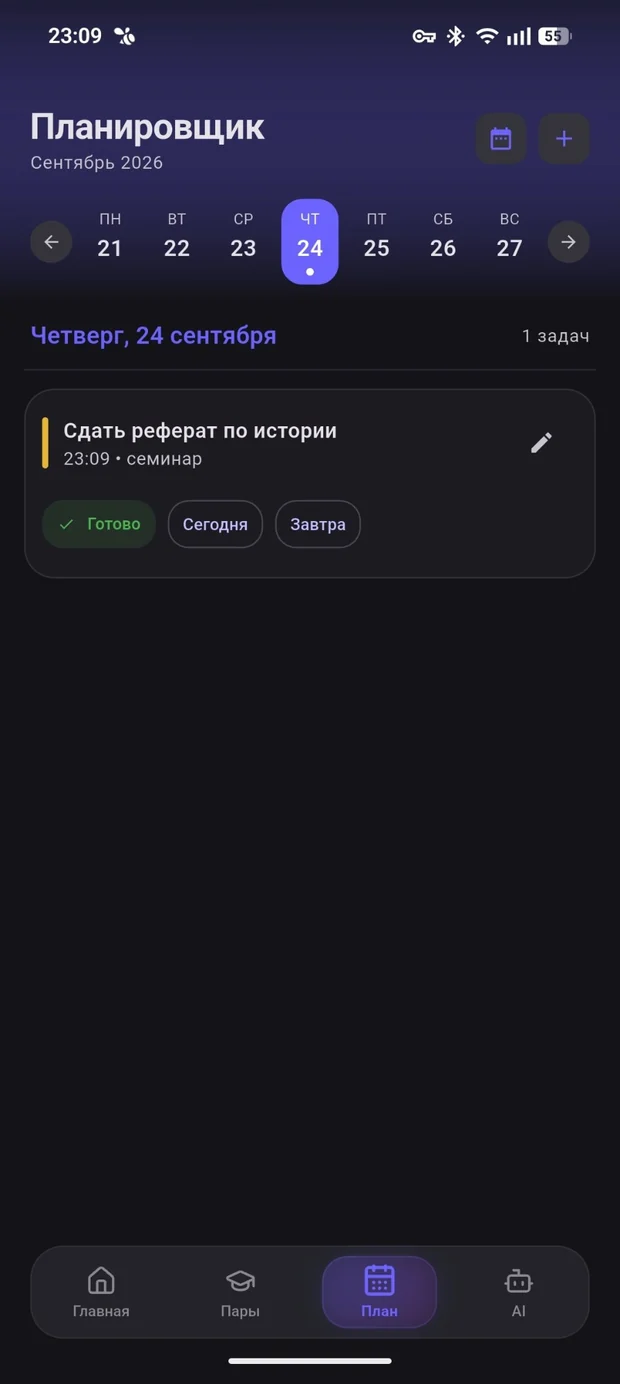
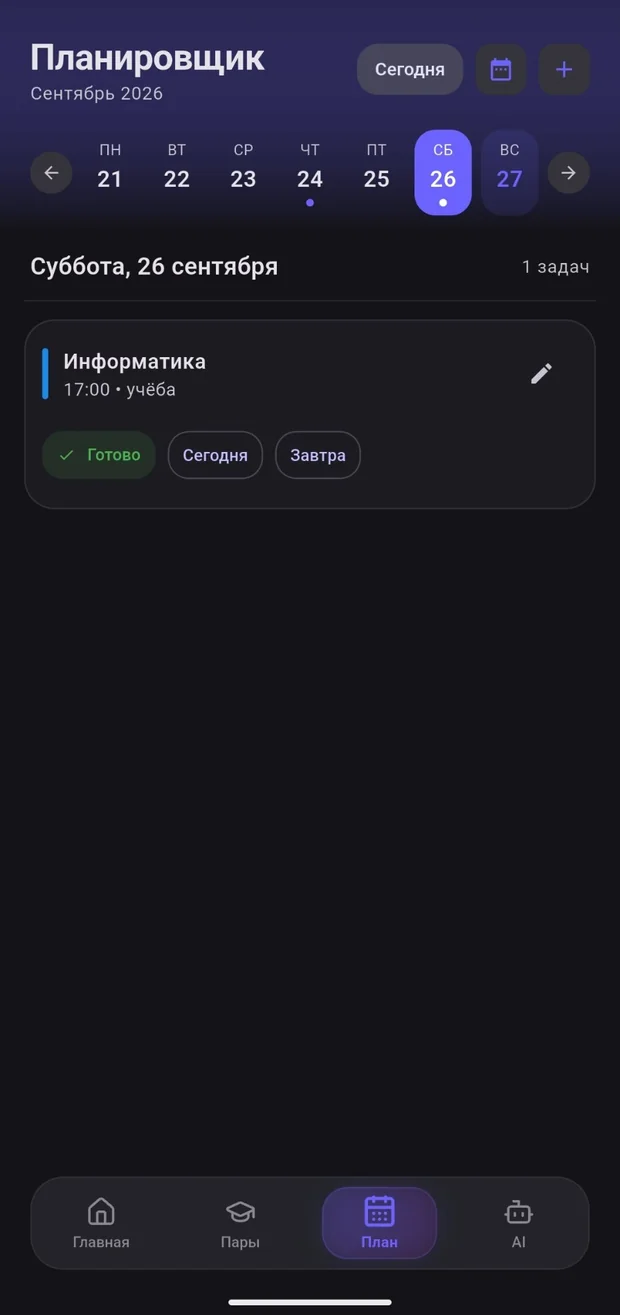
Новые скриншоты приложения, без строки состояния
Четыре экрана в «Как это выглядит» заменены свежими: задачи с
просроченными, расписание на субботу, планировщик и ассистент с
карточкой задачи. Строка состояния телефона срезана; размеры и подписи
картинок обновлены.

diff --git a/index.html b/index.html
@@ -354,25 +354,25 @@
     <div class="shots">
       <div class="shot-slot">
         <figure class="shot">
-          <img src="assets/tasks.webp" alt="Экран «Мои задачи»: задачи на сегодня и на потом" loading="lazy" width="620" height="1384">
+          <img src="assets/tasks.webp" alt="Экран «Мои задачи»: просроченные задачи и задачи на потом" loading="lazy" width="620" height="1315">
           <figcaption>Мои задачи</figcaption>
         </figure>
       </div>
       <div class="shot-slot">
         <figure class="shot">
-          <img src="assets/schedule.webp" alt="Расписание пар группы на пятницу" loading="lazy" width="620" height="1384">
+          <img src="assets/schedule.webp" alt="Расписание пар группы на субботу" loading="lazy" width="620" height="1315">
           <figcaption>Расписание вуза</figcaption>
         </figure>
       </div>
       <div class="shot-slot">
         <figure class="shot">
-          <img src="assets/planner.webp" alt="Планировщик: неделя и задачи на выбранный день" loading="lazy" width="620" height="1384">
+          <img src="assets/planner.webp" alt="Планировщик: неделя и задачи на выбранный день" loading="lazy" width="620" height="1315">
           <figcaption>Планировщик</figcaption>
         </figure>
       </div>
       <div class="shot-slot">
         <figure class="shot">
-          <img src="assets/assistant.webp" alt="Чат с ассистентом: задача создаётся по одной фразе" loading="lazy" width="620" height="1384">
+          <img src="assets/assistant.webp" alt="Чат с ассистентом: задача создаётся по одной фразе и сразу видна карточкой" loading="lazy" width="620" height="1315">
           <figcaption>Ассистент</figcaption>
         </figure>
       </div>
